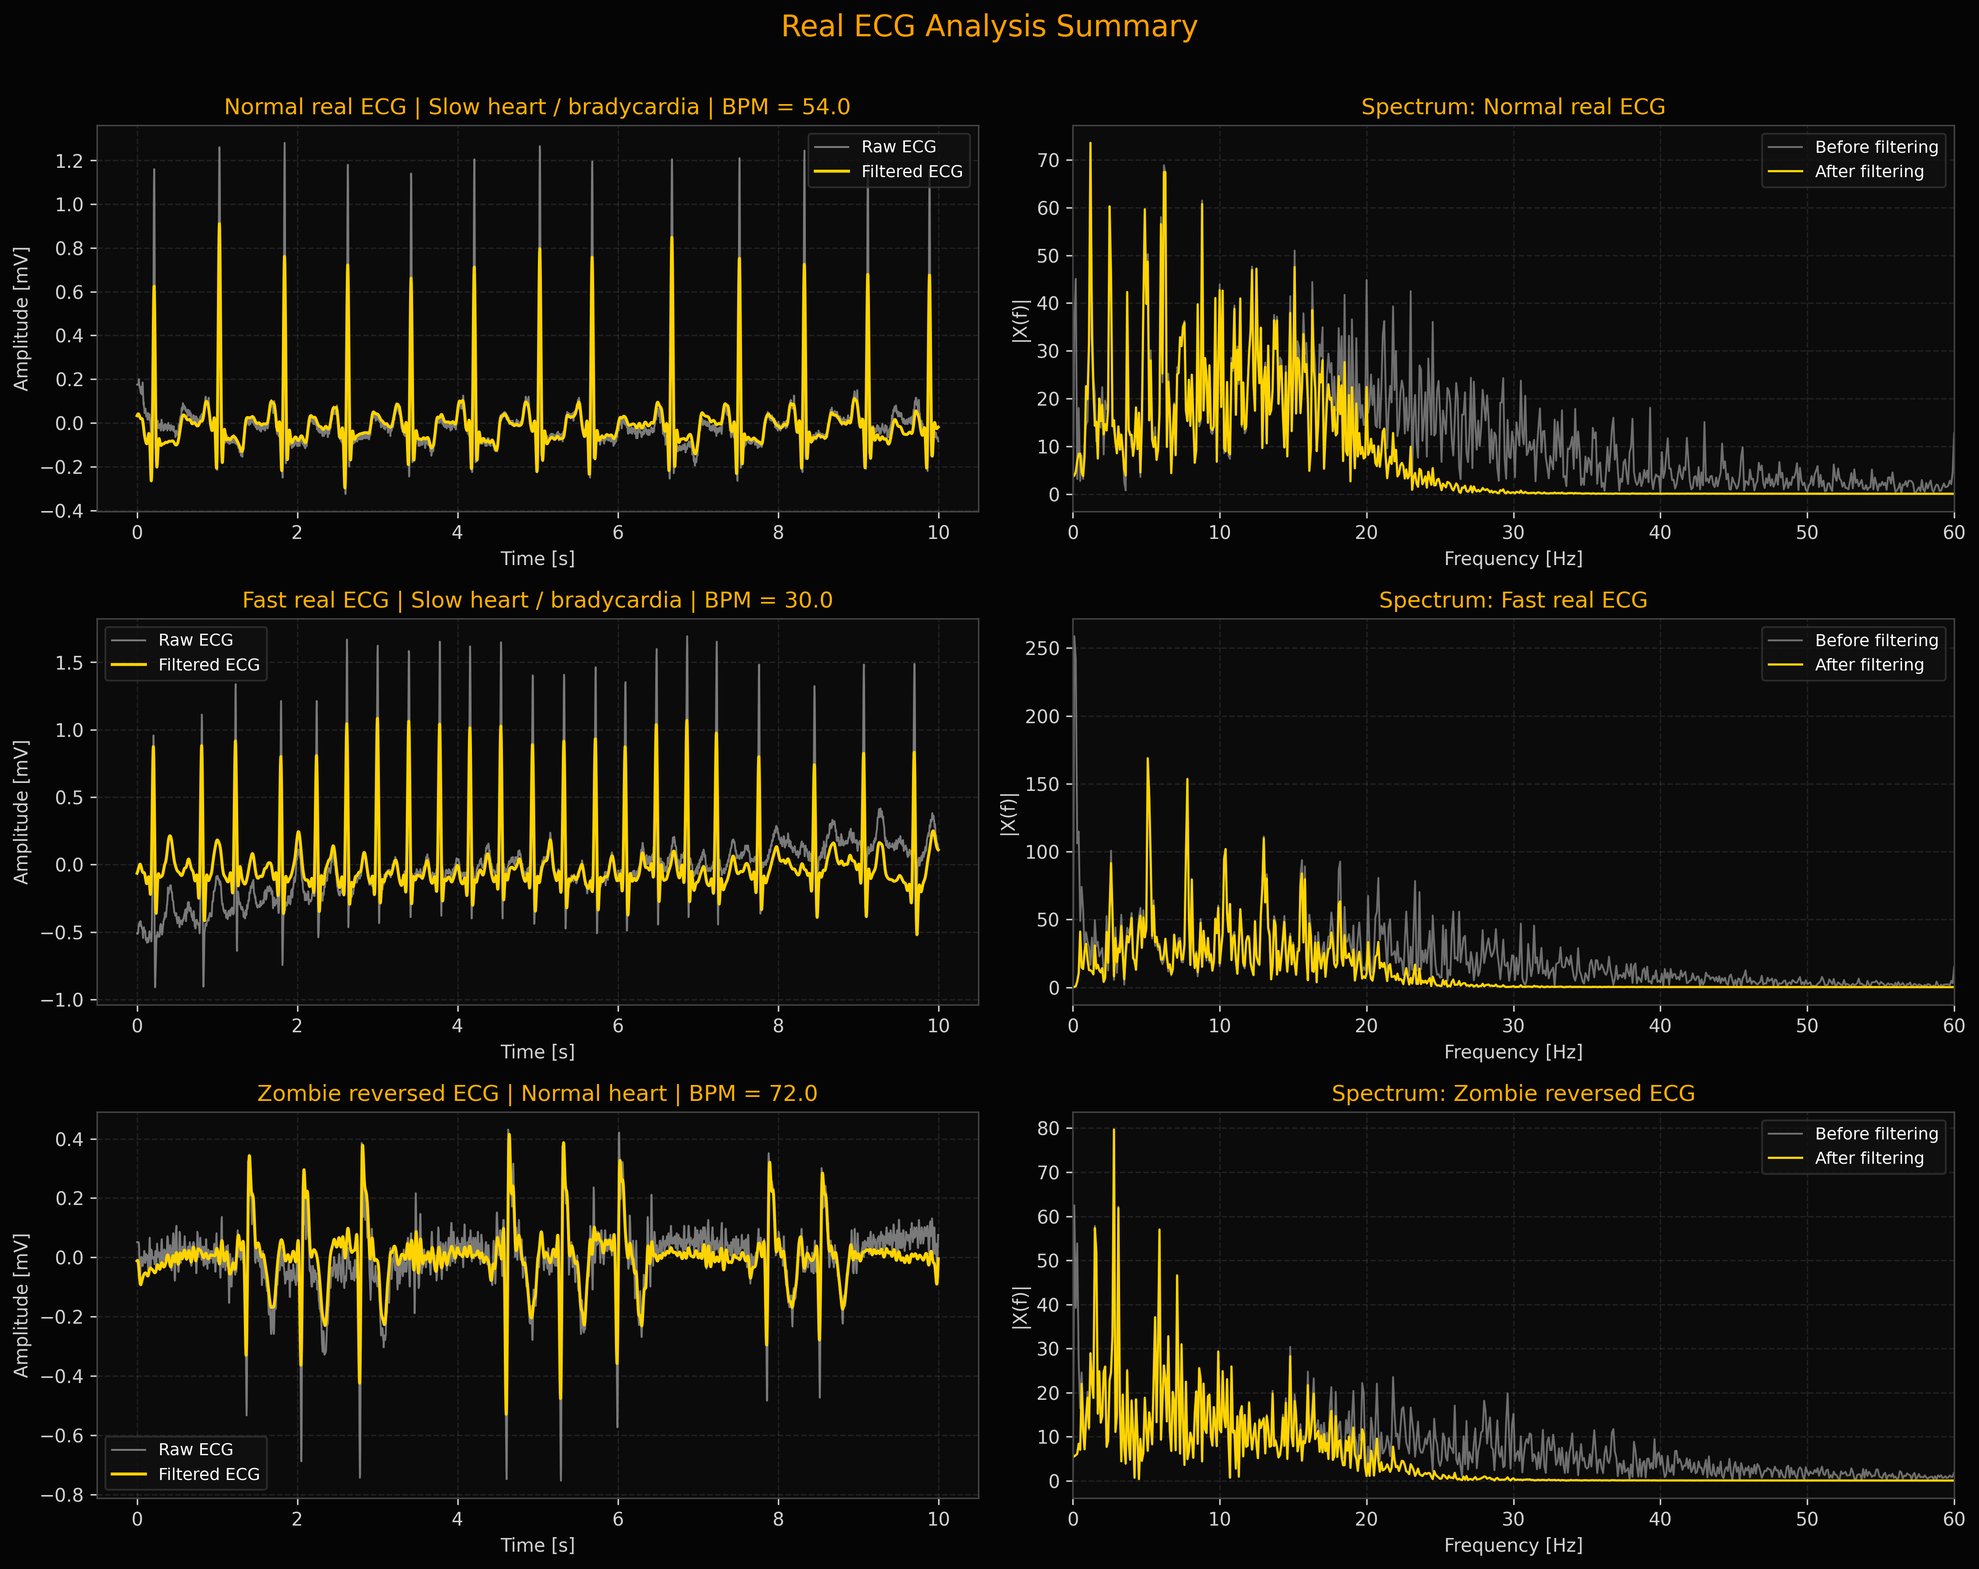
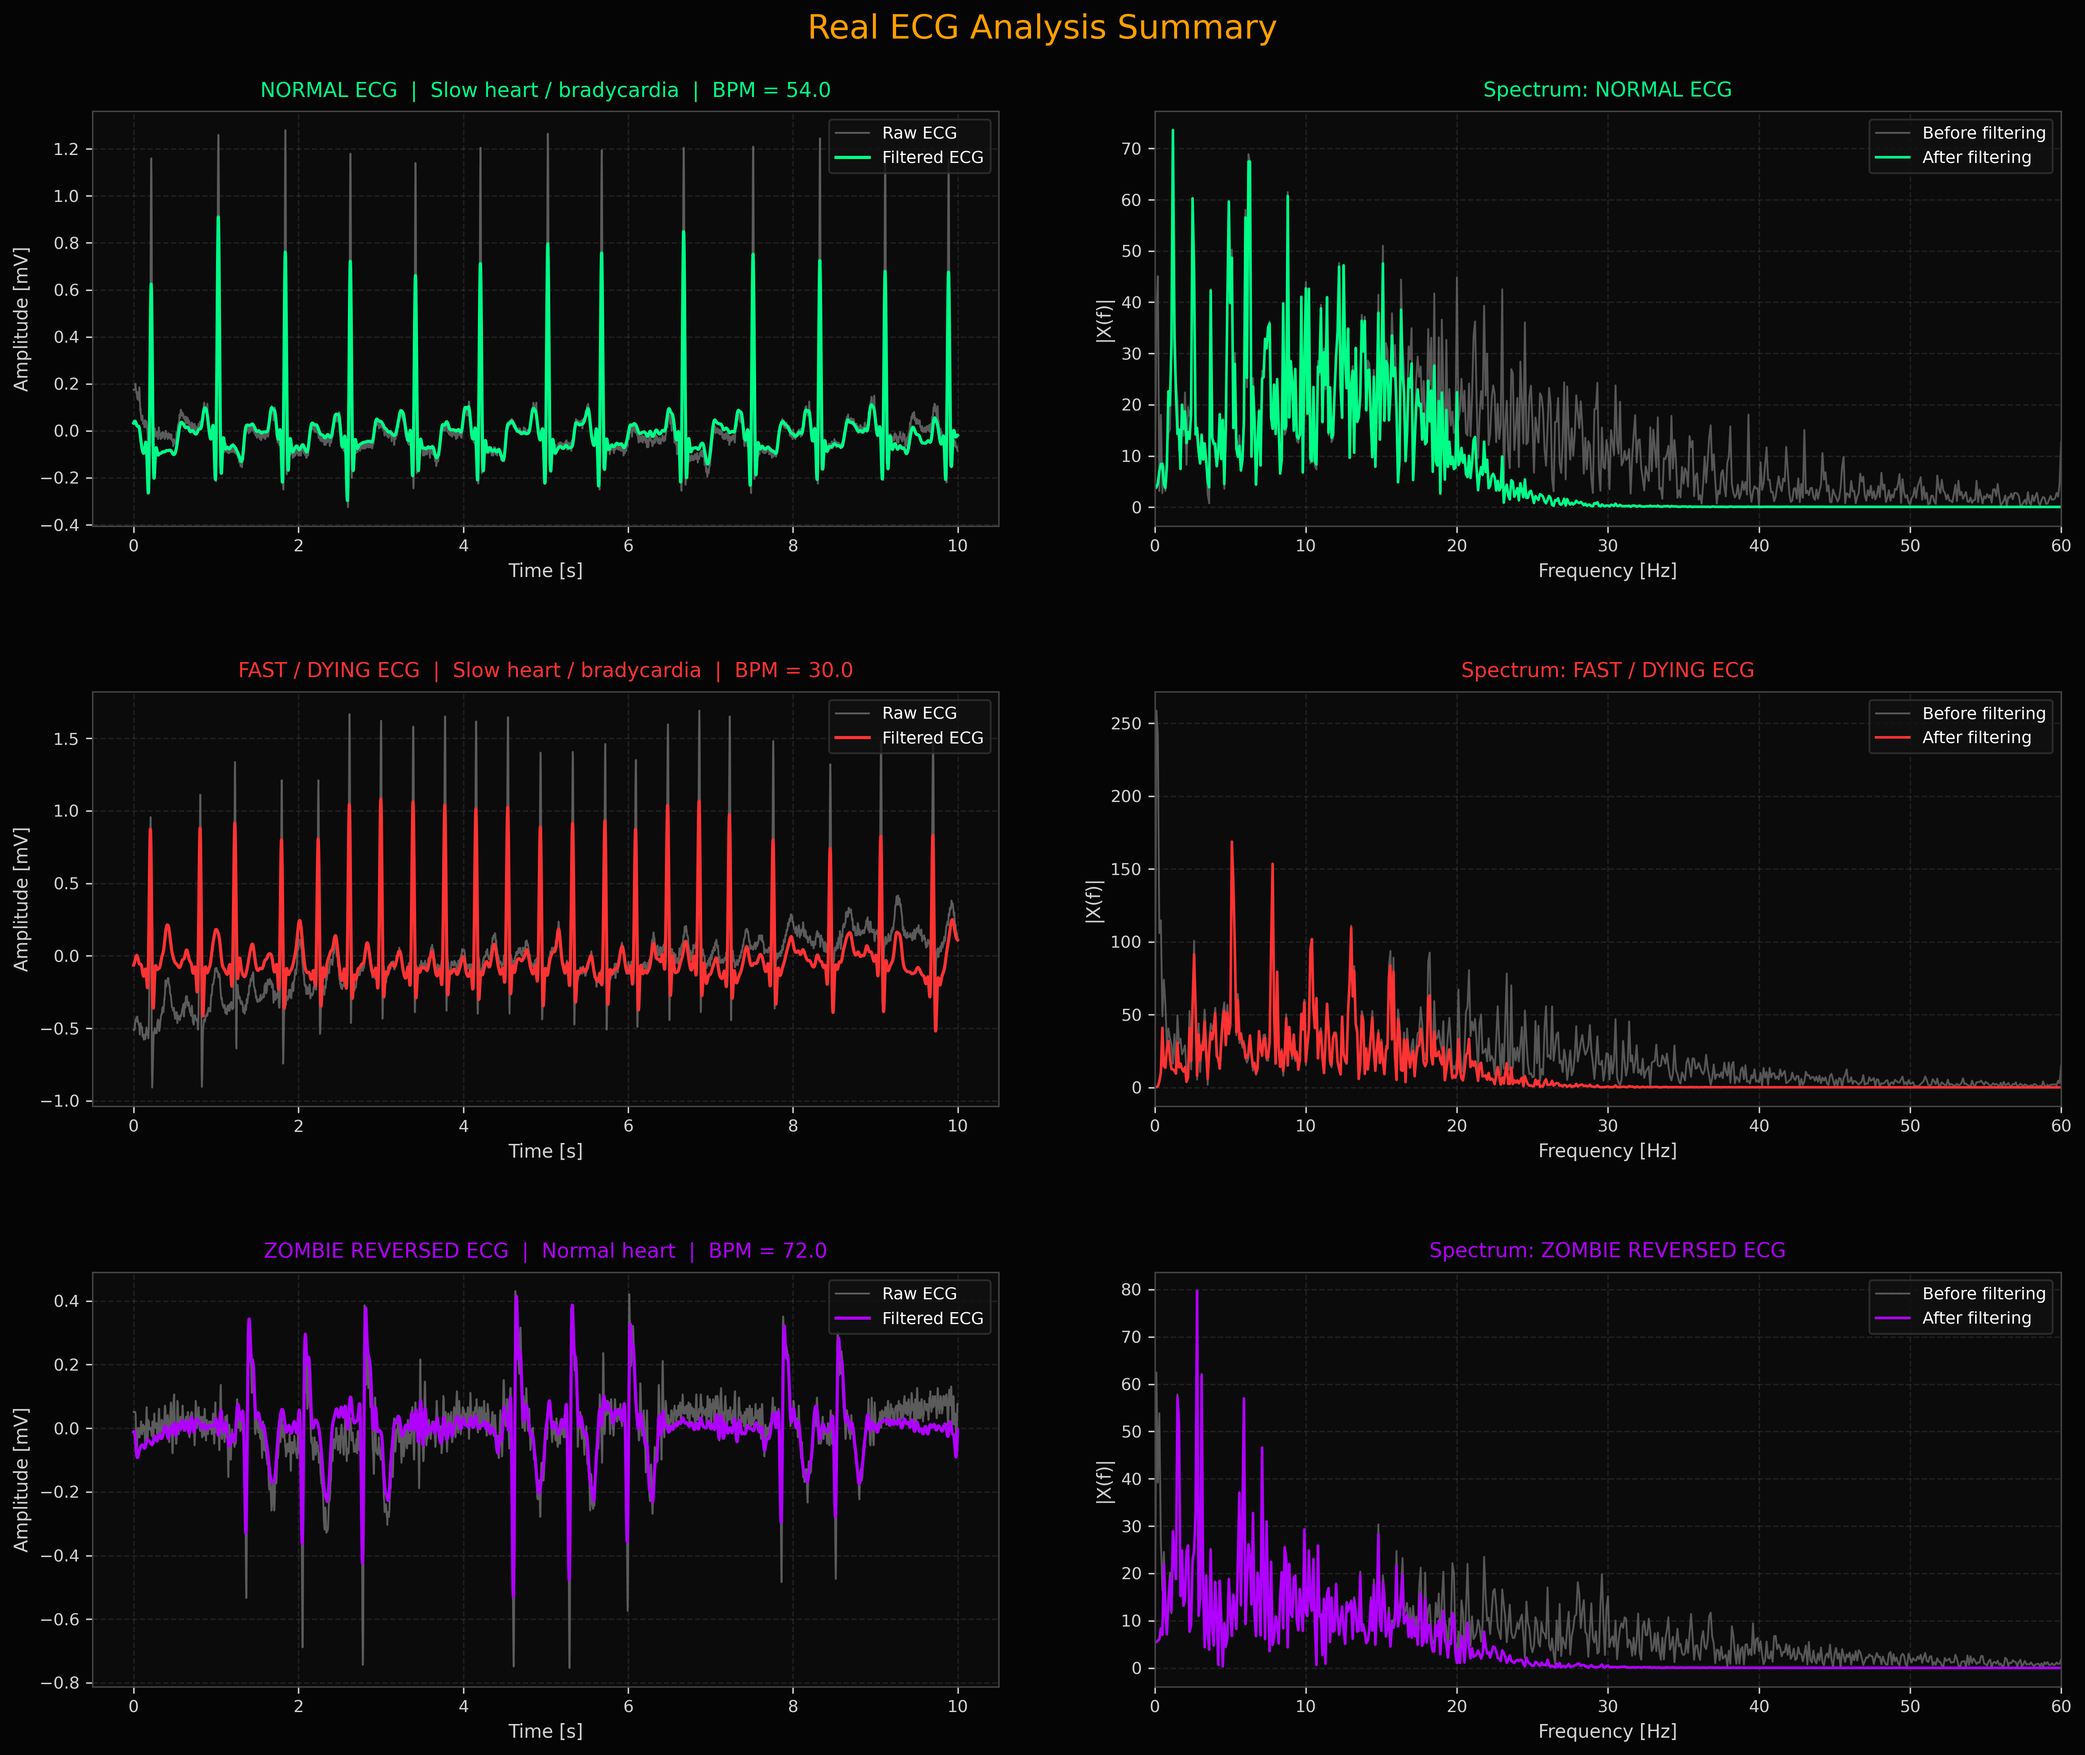
fixed plotting

diff --git a/run_real_ecg_loader.py b/run_real_ecg_loader.py
@@ -62,26 +62,80 @@ def analyse_one_ecg(title, record_name, start_sec, duration_sec, invert=False):
 
 def style_axis(ax):
     ax.set_facecolor("#0b0b0b")
-    ax.tick_params(colors="lightgray")
+    ax.tick_params(colors="lightgray", labelsize=9)
+
     for spine in ax.spines.values():
         spine.set_color("#444444")
+
     ax.grid(True, color="gray", alpha=0.18, linestyle="--")
+
+
+def get_theme(title):
+    """
+    Choose colors based on the ECG type.
+    """
+
+    title_lower = title.lower()
+
+    if "normal" in title_lower:
+        return {
+            "main": "#00ff88",       # bright green
+            "soft": "#7dffbd",       # softer green
+            "title": "#00ff88",
+            "name": "NORMAL"
+        }
+
+    if "fast" in title_lower:
+        return {
+            "main": "#ff3333",       # red
+            "soft": "#ff9a9a",       # softer red
+            "title": "#ff3333",
+            "name": "FAST / DYING"
+        }
+
+    if "zombie" in title_lower or "reversed" in title_lower:
+        return {
+            "main": "#b000ff",       # purple
+            "soft": "#d88cff",       # softer purple
+            "title": "#b000ff",
+            "name": "ZOMBIE REVERSED"
+        }
+
+    return {
+        "main": "#ffd400",
+        "soft": "#eeeeee",
+        "title": "#ffd400",
+        "name": "ECG"
+    }
 
 
 def plot_summary(results):
     os.makedirs("figures", exist_ok=True)
 
     plt.style.use("dark_background")
-    fig, axes = plt.subplots(3, 2, figsize=(15, 12))
+
+    fig, axes = plt.subplots(
+        3,
+        2,
+        figsize=(16, 13),
+        constrained_layout=True
+    )
+
     fig.patch.set_facecolor("#050505")
 
-    title_color = "#ffb000"   # warm orange/yellow
-    raw_color = "#8f8f8f"     # gray
-    filt_color = "#ffd400"    # yellow
-    spec_before = "#888888"
-    spec_after = "#ffd400"
+    # Extra spacing control
+    fig.set_constrained_layout_pads(
+        w_pad=0.25,
+        h_pad=0.25,
+        hspace=0.14,
+        wspace=0.08
+    )
+
+    raw_color = "#777777"
 
     for i, result in enumerate(results):
+        theme = get_theme(result["title"])
+
         t = result["t"]
         raw = result["raw"]
         filtered = result["filtered"]
@@ -92,40 +146,116 @@ def plot_summary(results):
         label = result["label"]
         title = result["title"]
 
-        # Make both signals equally offset for direct comparison
+        # Centre both signals so raw and filtered are directly comparable
         raw_plot = raw - np.mean(raw)
         filtered_plot = filtered - np.mean(filtered)
 
-        # Left subplot: ECG in time domain
+        # Normalize spectra slightly for cleaner visual comparison
+        # This keeps the shape but avoids one spectrum visually dominating too much.
+        mag_before_plot = mag_before
+        mag_after_plot = mag_after
+
+        # =========================
+        # Left column: time signal
+        # =========================
         ax1 = axes[i, 0]
         style_axis(ax1)
-        ax1.plot(t, raw_plot, color=raw_color, linewidth=1.0, alpha=0.85, label="Raw ECG")
-        ax1.plot(t, filtered_plot, color=filt_color, linewidth=1.6, label="Filtered ECG")
-        ax1.set_title(f"{title} | {label} | BPM = {bpm:.1f}", color=title_color, fontsize=12)
-        ax1.set_xlabel("Time [s]", color="lightgray")
-        ax1.set_ylabel("Amplitude [mV]", color="lightgray")
-        ax1.legend(facecolor="#111111", edgecolor="#333333", fontsize=9)
 
-        # Right subplot: frequency spectrum
+        ax1.plot(
+            t,
+            raw_plot,
+            color=raw_color,
+            linewidth=1.0,
+            alpha=0.75,
+            label="Raw ECG"
+        )
+
+        ax1.plot(
+            t,
+            filtered_plot,
+            color=theme["main"],
+            linewidth=1.7,
+            label="Filtered ECG"
+        )
+
+        ax1.set_title(
+            f"{theme['name']} ECG  |  {label}  |  BPM = {bpm:.1f}",
+            color=theme["title"],
+            fontsize=11,
+            pad=8
+        )
+
+        ax1.set_xlabel("Time [s]", color="lightgray", fontsize=10, labelpad=4)
+        ax1.set_ylabel("Amplitude [mV]", color="lightgray", fontsize=10, labelpad=4)
+
+        ax1.legend(
+            facecolor="#111111",
+            edgecolor="#333333",
+            fontsize=9,
+            loc="upper right"
+        )
+
+        # =========================
+        # Right column: spectrum
+        # =========================
         ax2 = axes[i, 1]
         style_axis(ax2)
-        ax2.plot(freqs, mag_before, color=spec_before, linewidth=1.0, alpha=0.8, label="Before filtering")
-        ax2.plot(freqs, mag_after, color=spec_after, linewidth=1.2, label="After filtering")
-        ax2.set_xlim(0, 60)
-        ax2.set_title(f"Spectrum: {title}", color=title_color, fontsize=12)
-        ax2.set_xlabel("Frequency [Hz]", color="lightgray")
-        ax2.set_ylabel("|X(f)|", color="lightgray")
-        ax2.legend(facecolor="#111111", edgecolor="#333333", fontsize=9)
 
-    fig.suptitle("Real ECG Analysis Summary", color="#ff9f00", fontsize=16)
-    plt.tight_layout(rect=[0, 0, 1, 0.97])
+        ax2.plot(
+            freqs,
+            mag_before_plot,
+            color=raw_color,
+            linewidth=1.0,
+            alpha=0.7,
+            label="Before filtering"
+        )
+
+        ax2.plot(
+            freqs,
+            mag_after_plot,
+            color=theme["main"],
+            linewidth=1.4,
+            label="After filtering"
+        )
+
+        ax2.set_xlim(0, 60)
+
+        ax2.set_title(
+            f"Spectrum: {theme['name']} ECG",
+            color=theme["title"],
+            fontsize=11,
+            pad=8
+        )
+
+        ax2.set_xlabel("Frequency [Hz]", color="lightgray", fontsize=10, labelpad=4)
+        ax2.set_ylabel("|X(f)|", color="lightgray", fontsize=10, labelpad=4)
+
+        ax2.legend(
+            facecolor="#111111",
+            edgecolor="#333333",
+            fontsize=9,
+            loc="upper right"
+        )
+
+    fig.suptitle(
+        "Real ECG Analysis Summary",
+        color="#ff9f00",
+        fontsize=18,
+        y=1.02
+    )
 
     save_path = "figures/real_ecg_summary.png"
-    plt.savefig(save_path, dpi=300, facecolor=fig.get_facecolor(), bbox_inches="tight")
+
+    plt.savefig(
+        save_path,
+        dpi=300,
+        facecolor=fig.get_facecolor(),
+        bbox_inches="tight"
+    )
+
     print(f"\nSaved figure to: {save_path}")
 
     plt.show()
-
 
 def main():
     results = []
@@ -140,7 +270,6 @@ def main():
     ))
 
     # 2. Fast ECG
-    # If this window does not look fast enough, try 858, 860, 862, 865
     results.append(analyse_one_ecg(
         title="Fast real ECG",
         record_name="209",
@@ -158,6 +287,7 @@ def main():
         invert=True
     ))
 
+    # Make the combined plot
     plot_summary(results)
 
 
